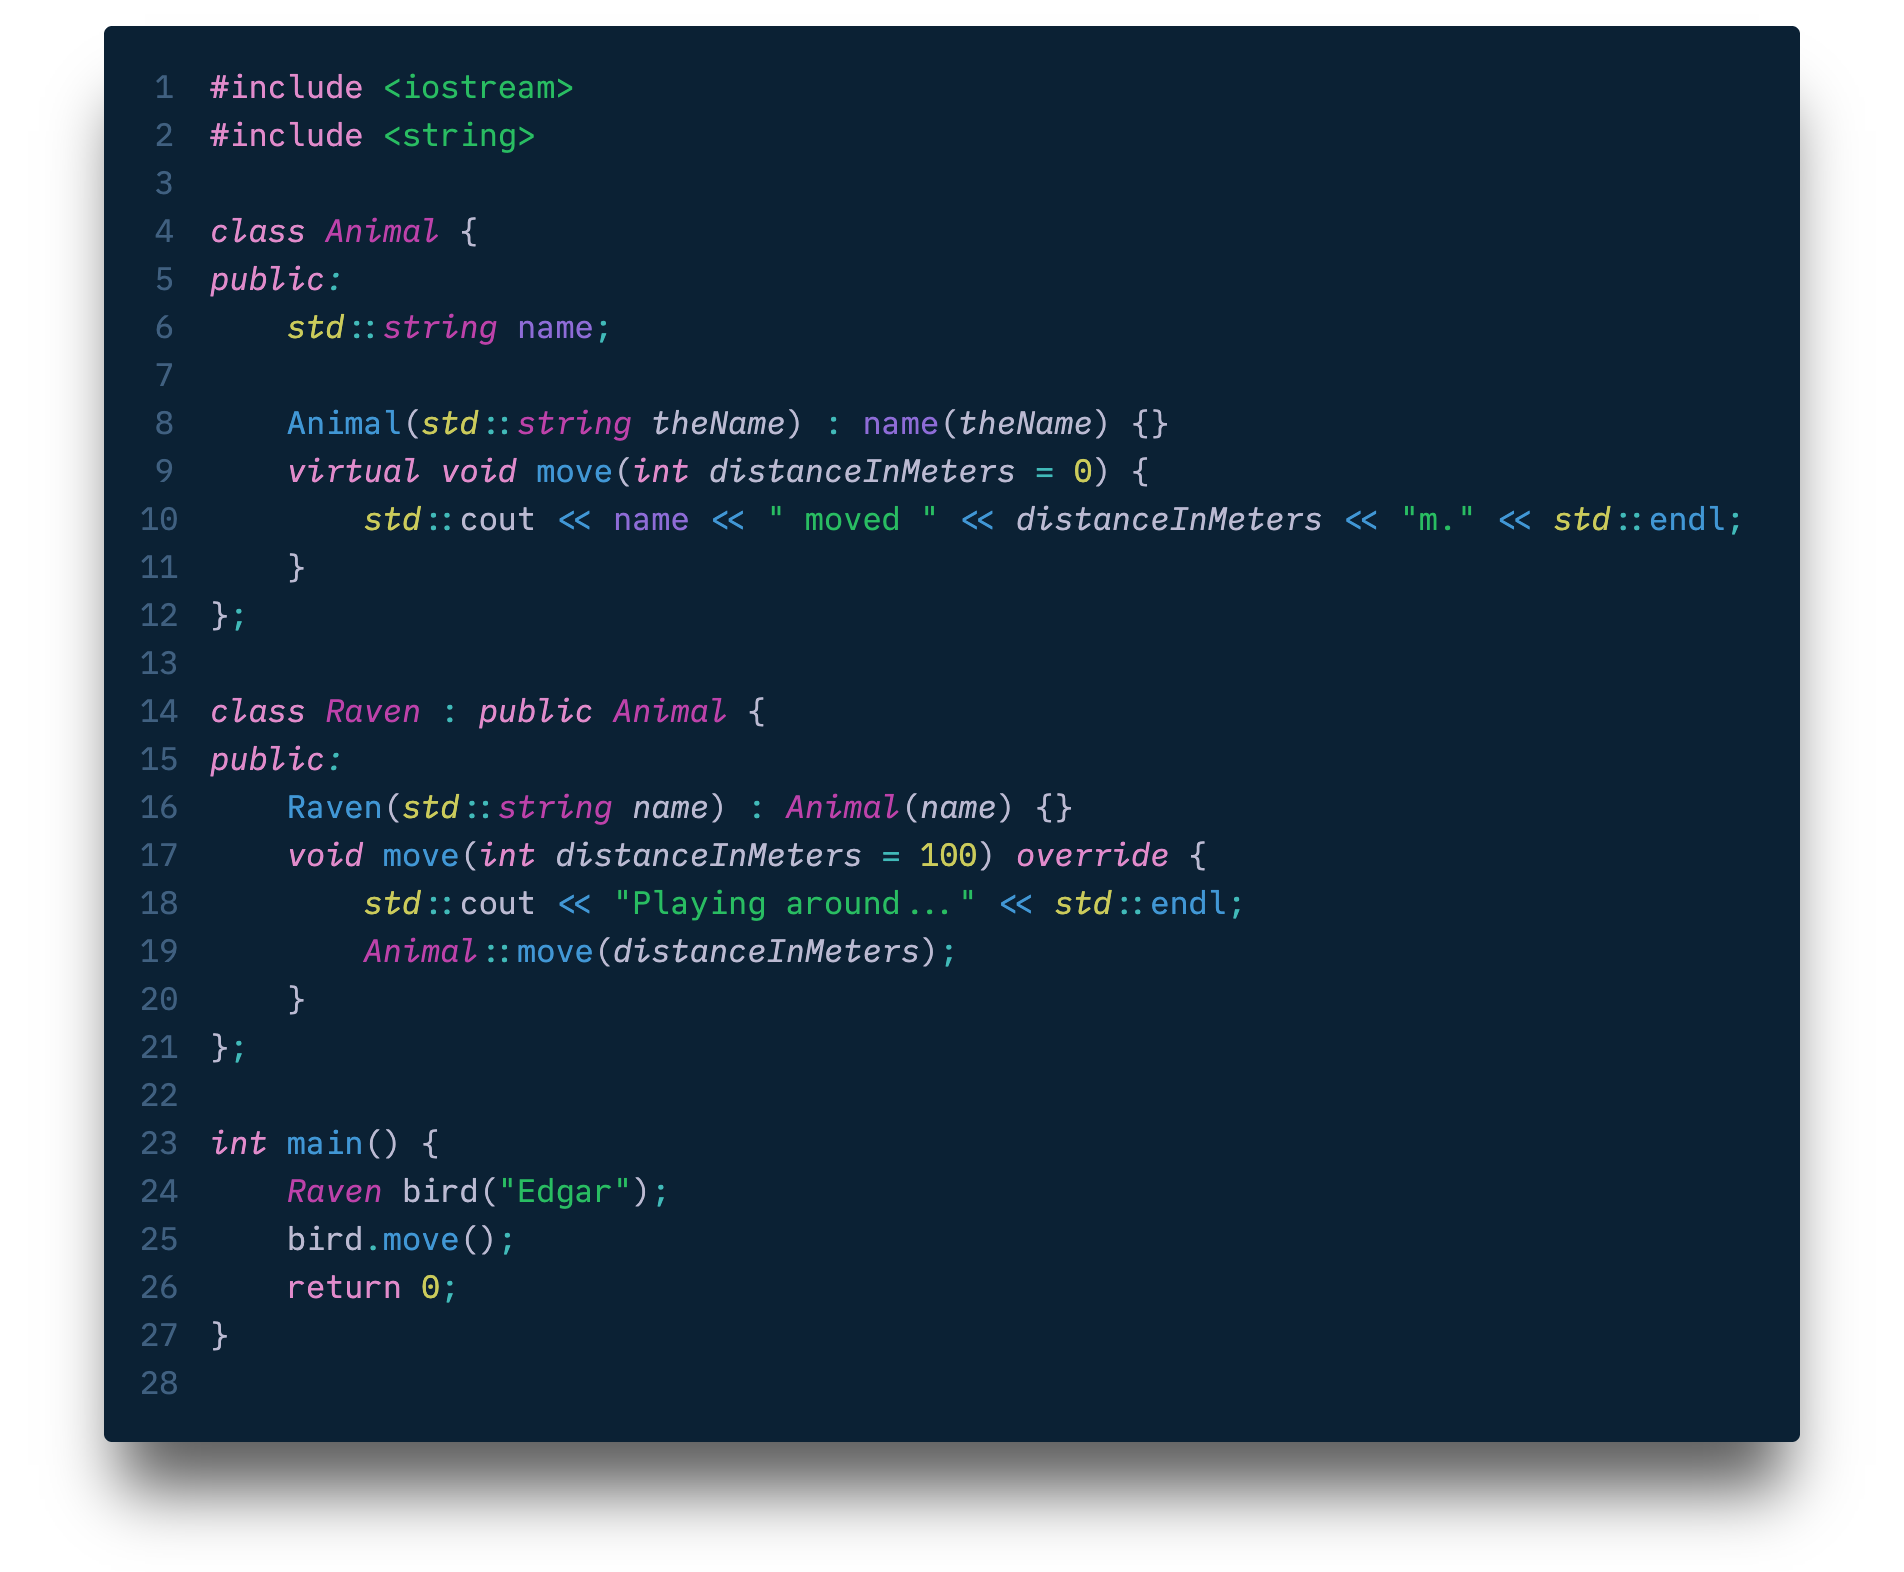
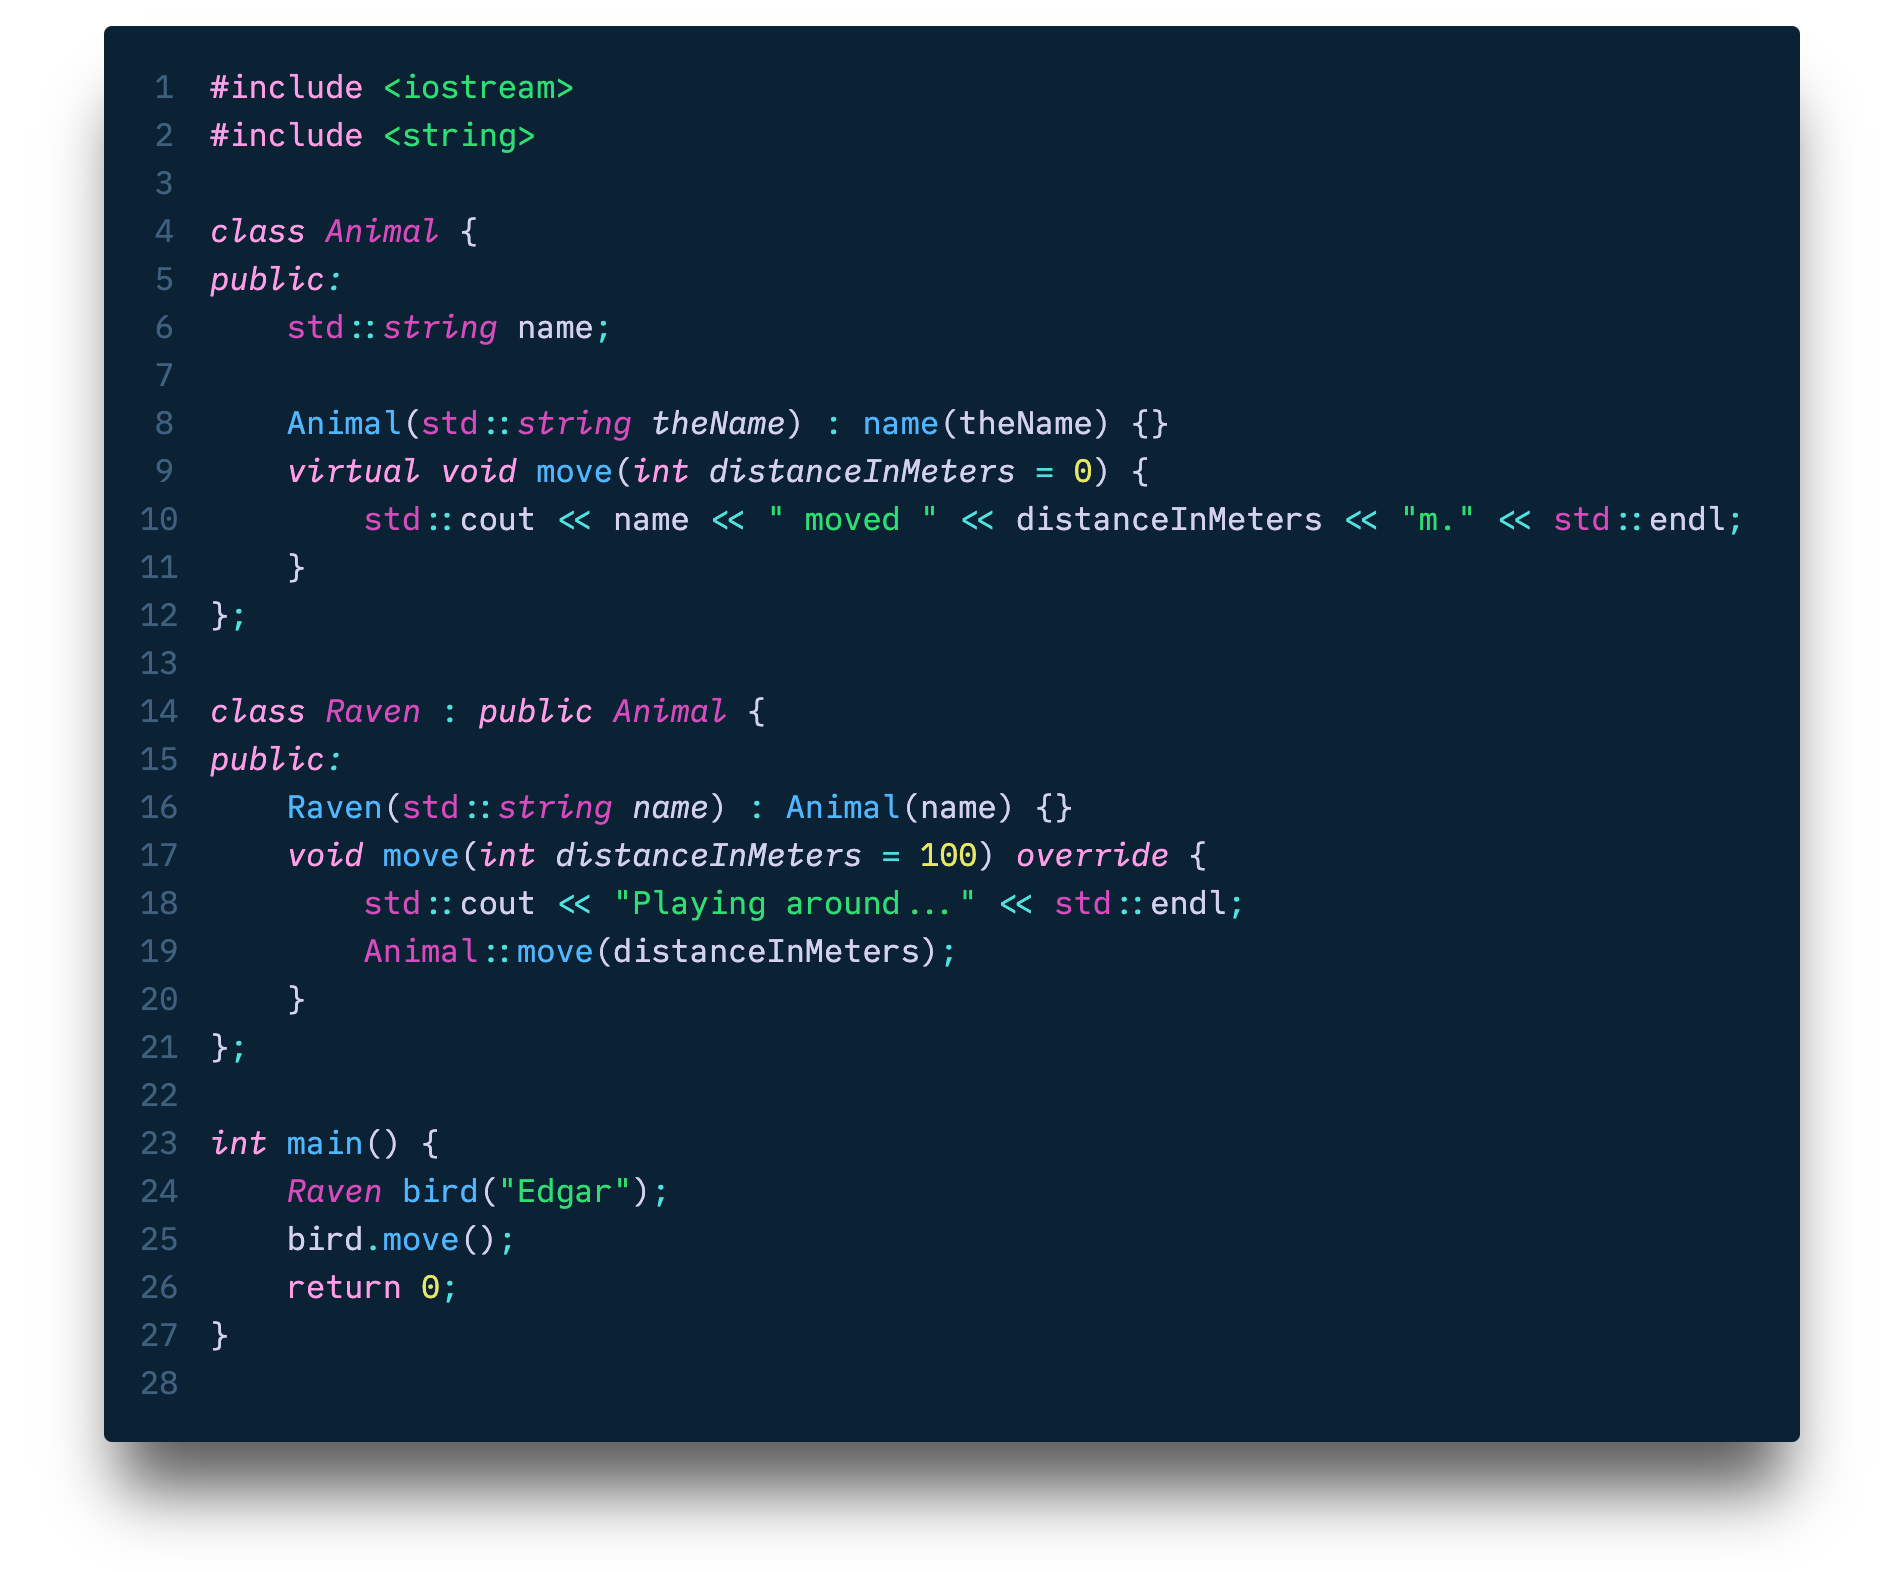
README: example_4.png
## Changed

- example_4.png

## Deleted

- `(Dimmed)` in `(Syntax: Cerberus (Dimmed) / Background: Glacial Blue)`

diff --git a/README.md b/README.md
@@ -44,7 +44,7 @@ _<div align="left"> (Syntax: Spirograph / Background: Dark Grey) </div>_
 
 ![Nebula Syntax - Spirograph - Typescript](https://raw.githubusercontent.com/psudo-dev/nebula-oni-theme/refs/heads/main/doc/_readme/example_3.png)
 
-_<div align="left"> (Syntax: Cerberus (Dimmed) / Background: Glacial Blue) </div>_
+_<div align="left"> (Syntax: Cerberus / Background: Glacial Blue) </div>_
 
 ![Nebula Syntax - Cerberus - Typescript](https://raw.githubusercontent.com/psudo-dev/nebula-oni-theme/refs/heads/main/doc/_readme/example_4.png)
 
